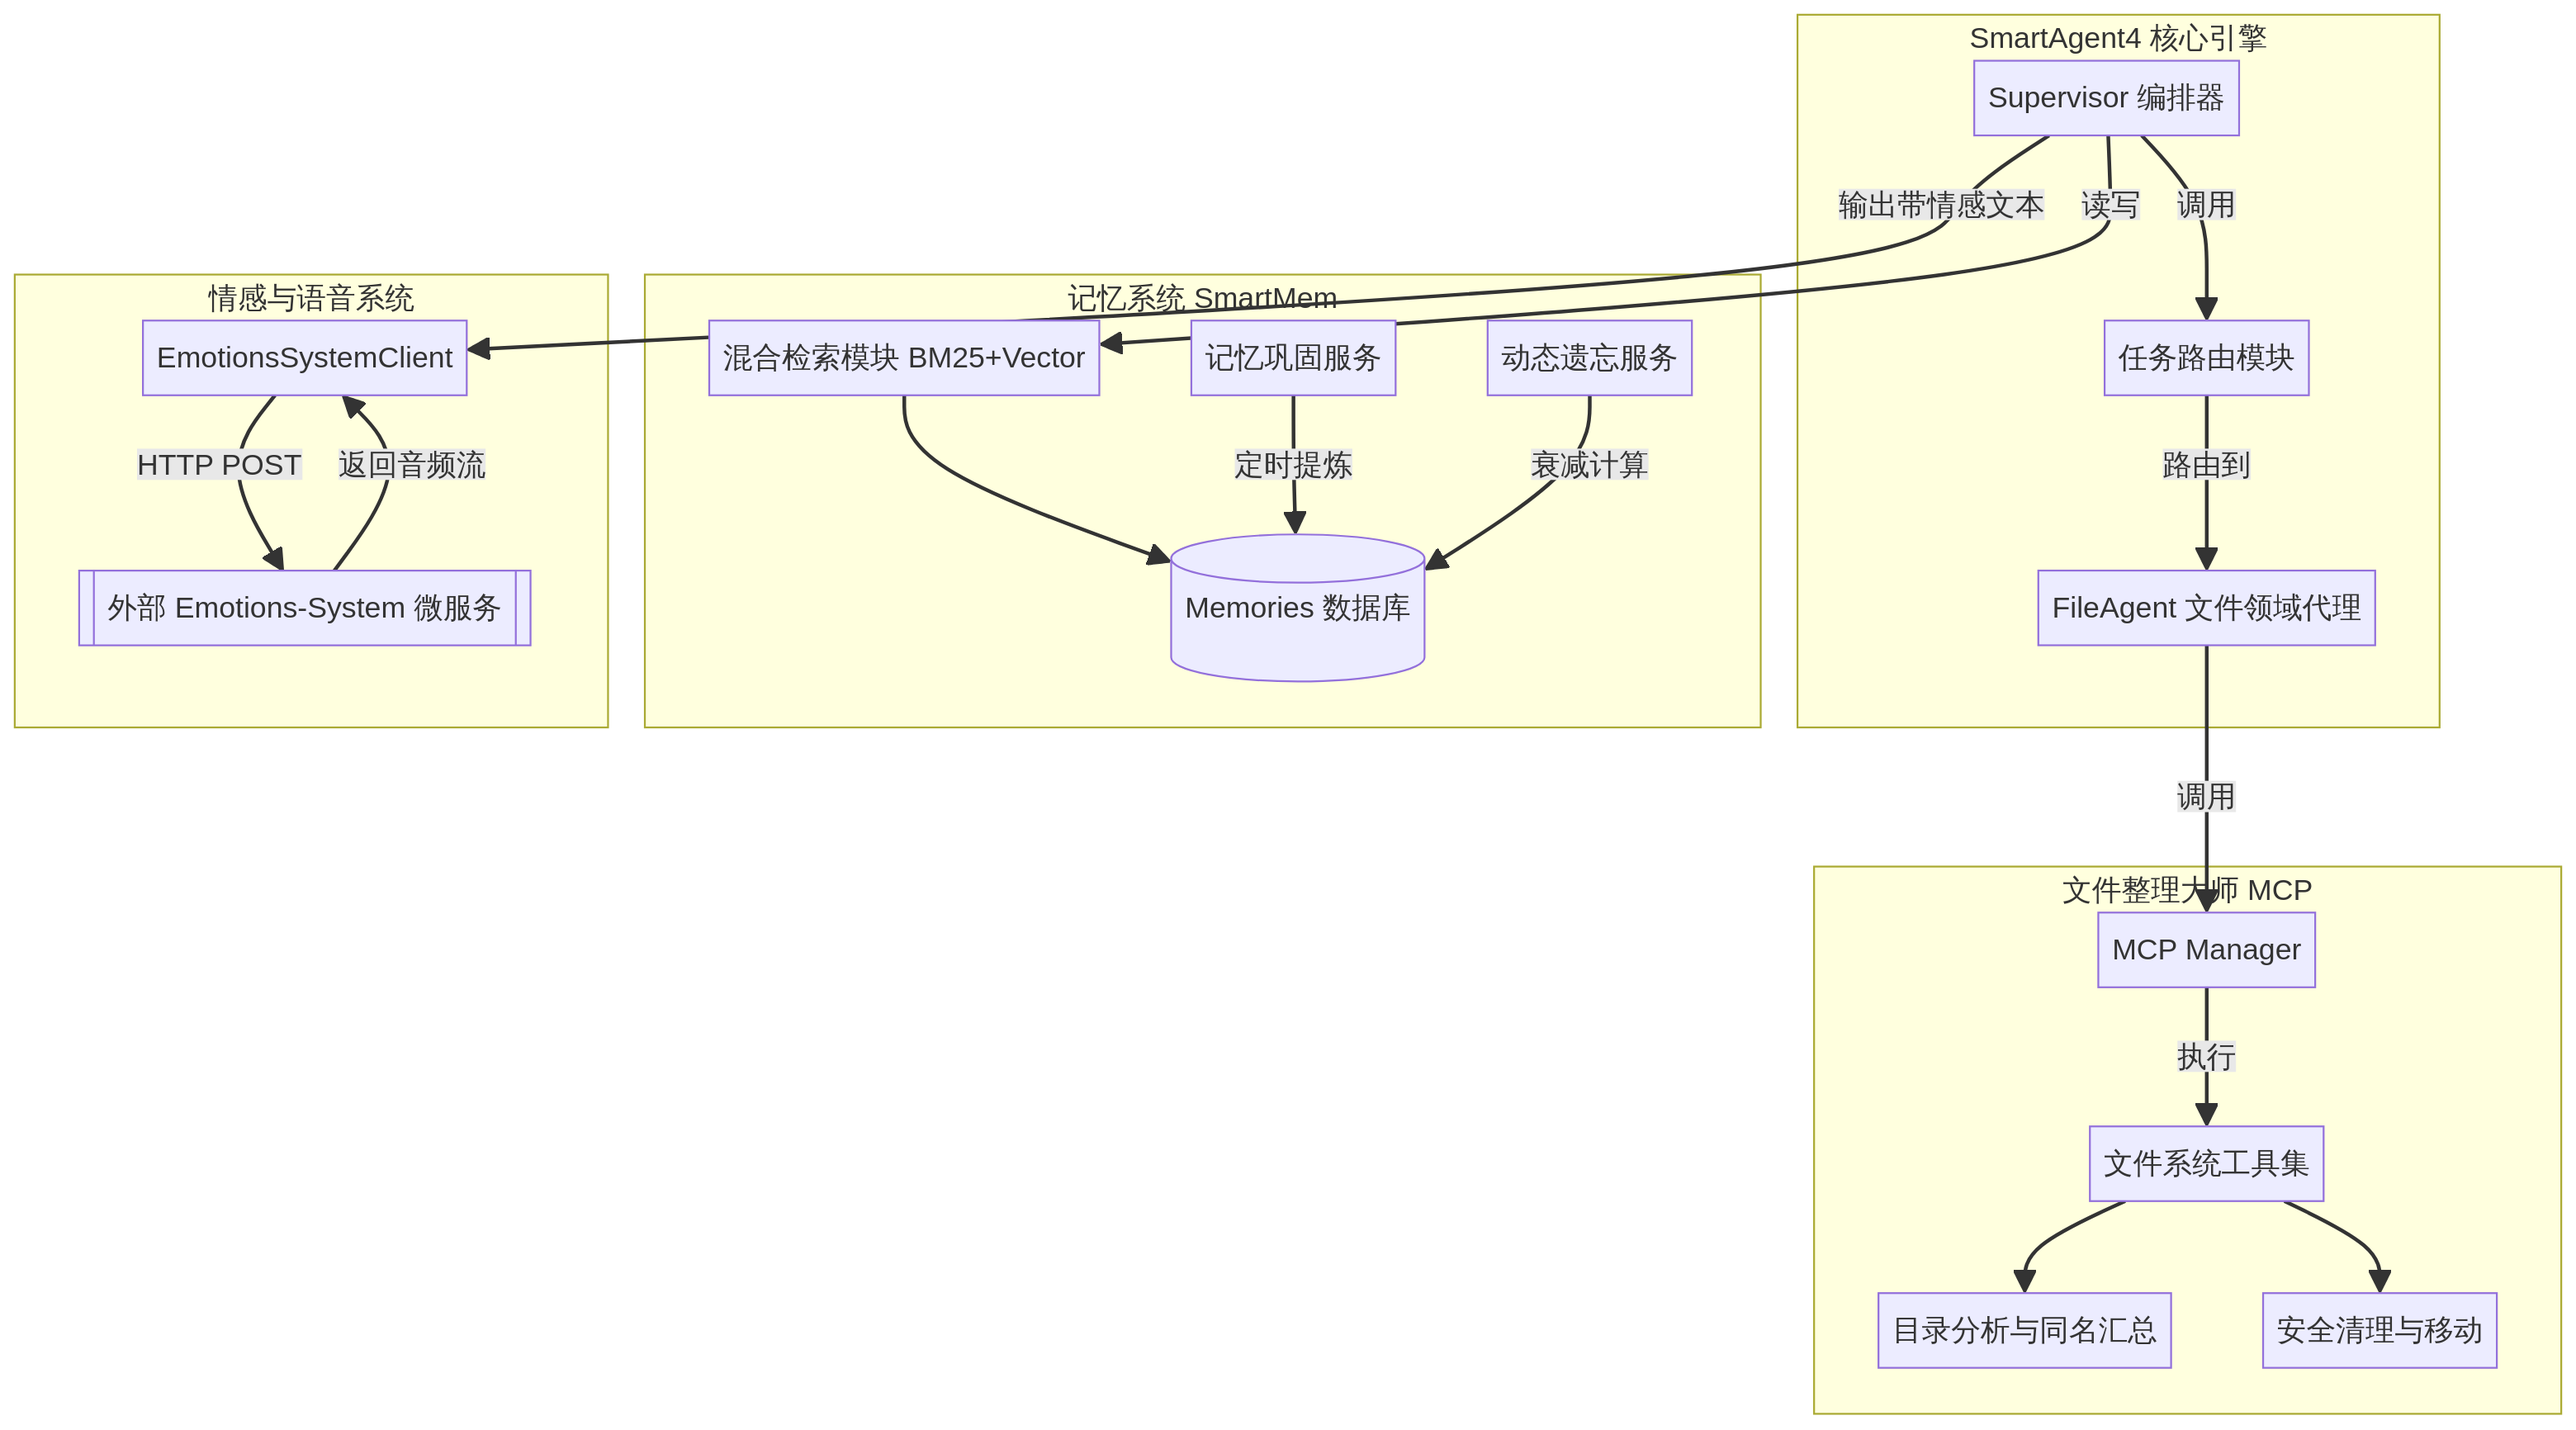
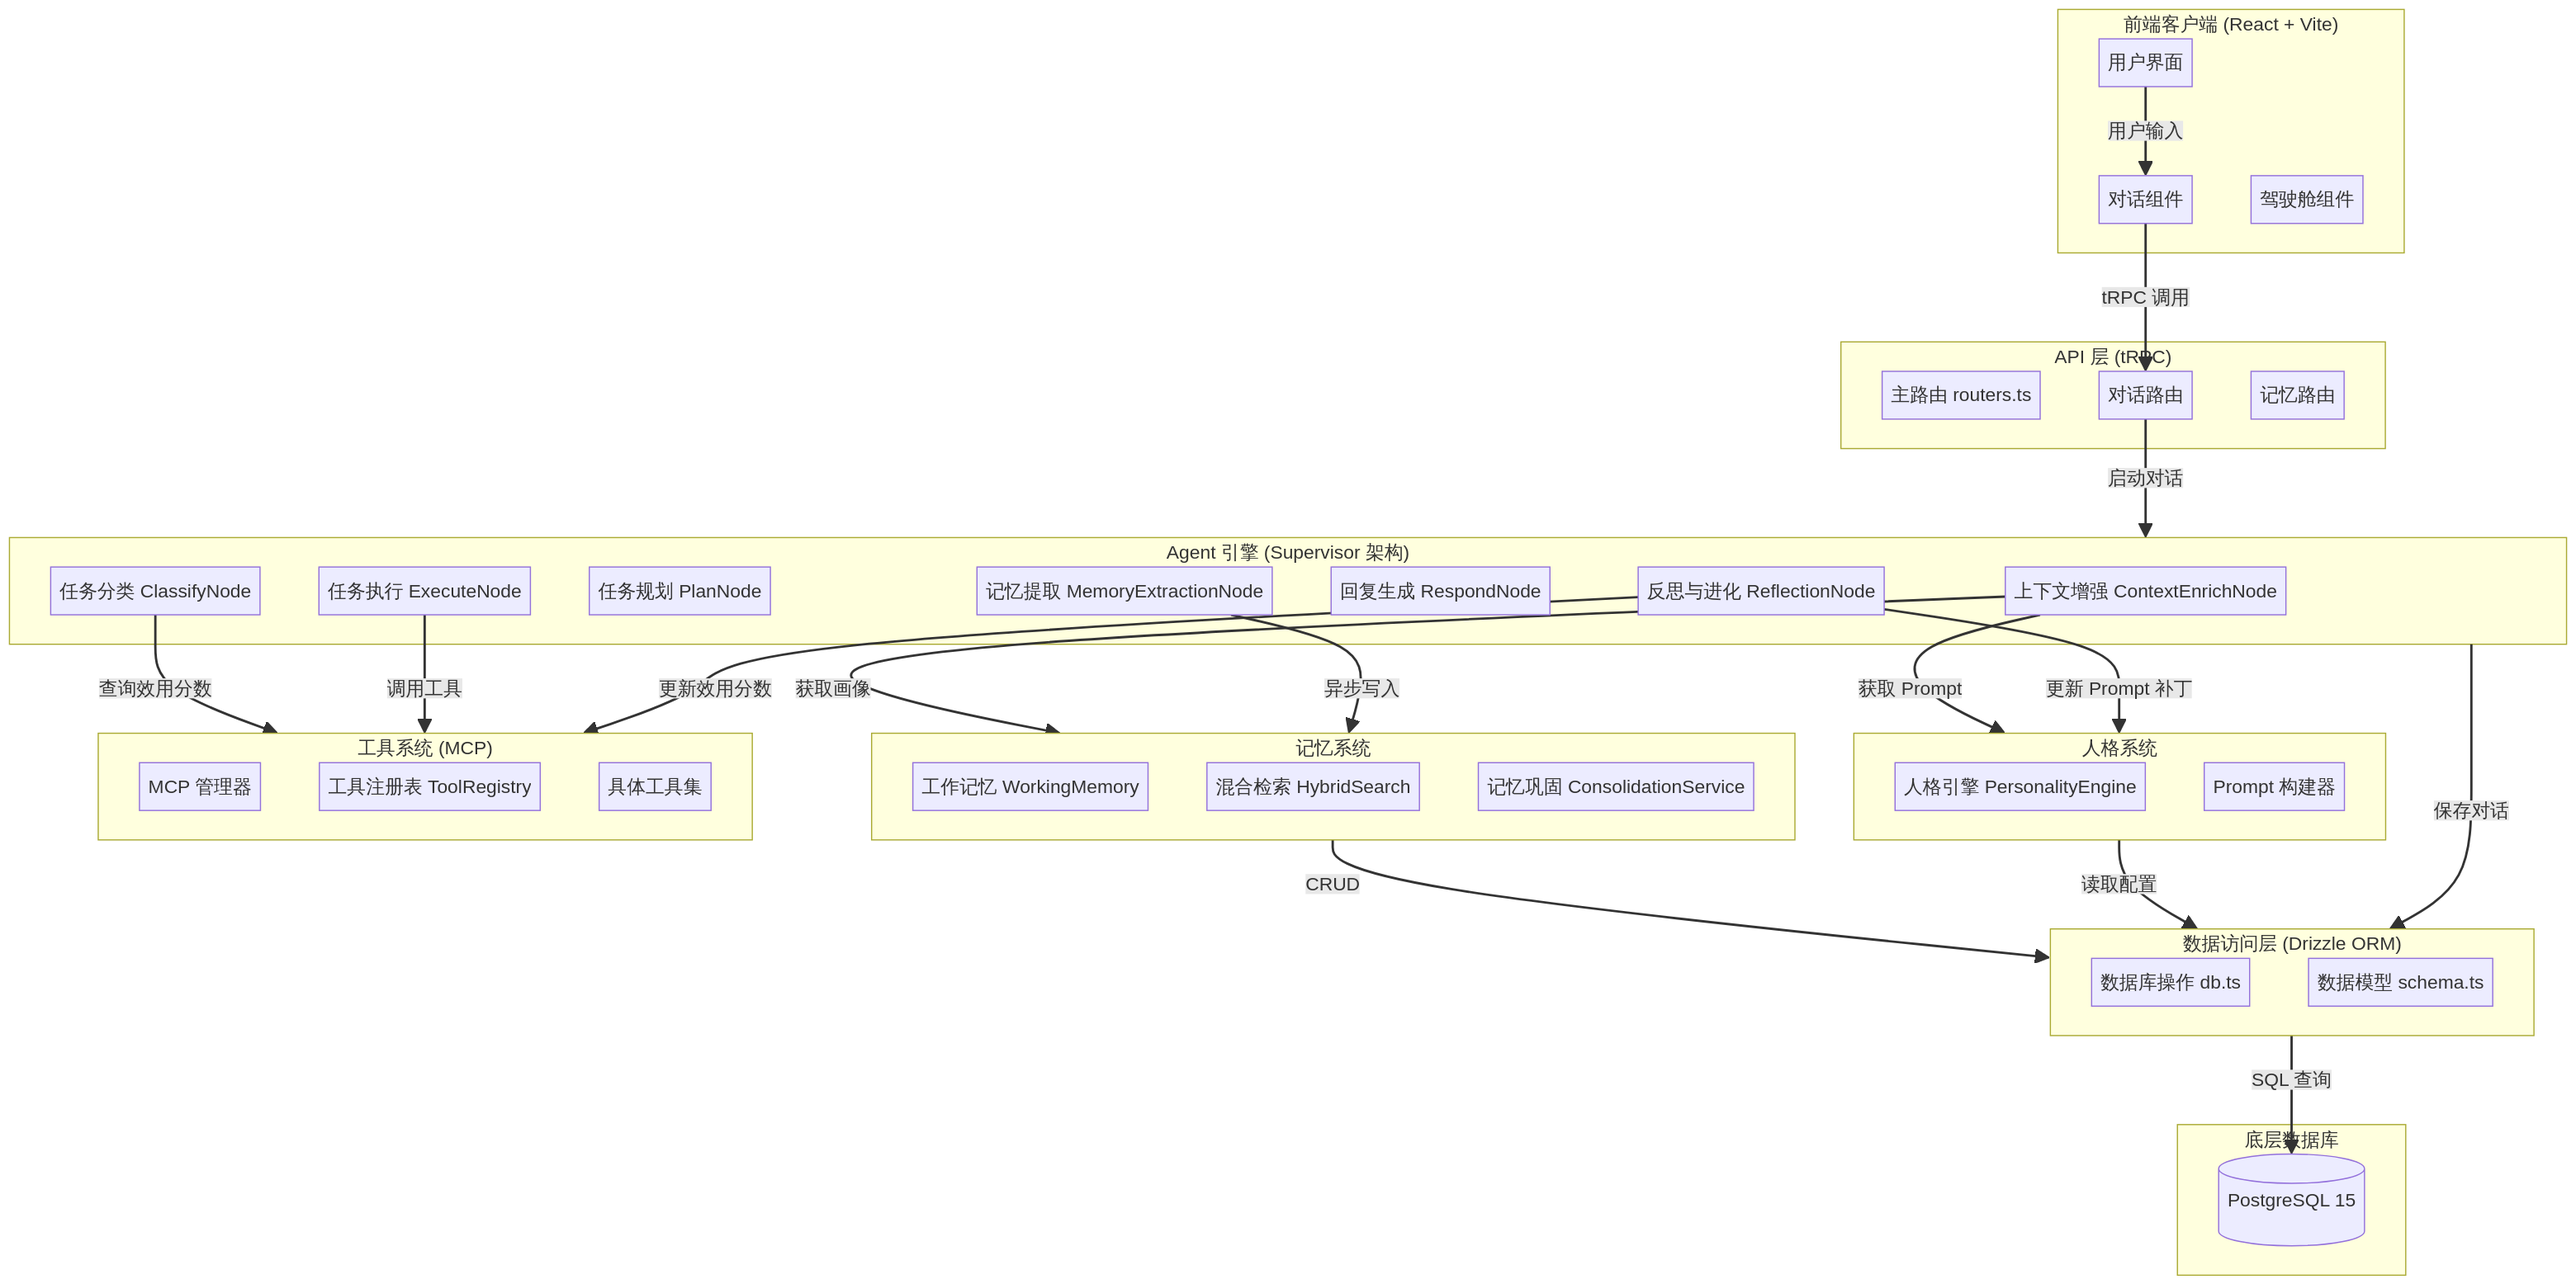
Phase 2: Architecture & Design - 架构设计

diff --git a/ARCHITECTURE.md b/ARCHITECTURE.md
@@ -1,53 +1,55 @@
 # SmartAgent4 系统架构设计
 
-**文档状态**：第2阶段产出
-**目标**：定义 SmartAgent4 的高层系统架构，特别是针对 SmartMem 记忆系统、Emotions-System TTS 语音合成以及文件整理大师三大新增功能的集成设计。
+## 1. 高层架构概览
 
-## 1. 高层架构图
+SmartAgent4 采用基于 Supervisor 的多 Agent 协作架构，结合了 LangGraph 进行流程编排。系统主要分为前端客户端、API 层、Agent 引擎、记忆系统、人格系统、工具系统和数据访问层。
 
-SmartAgent4 在保留 SmartAgent3 核心 Supervisor-Worker 架构的基础上，横向扩展了记忆、情感和文件处理能力。
+![系统架构图](./diagrams/architecture.png)
 
-![SmartAgent4 架构图](./diagrams/architecture.png)
+## 2. 模块职责表
 
-## 2. 模块职责说明
+| 模块名称 | 主要职责 | 核心技术 | 依赖关系 |
+|----------|----------|----------|----------|
+| **前端客户端** | 提供用户交互界面，包括对话窗口和驾驶舱视图 | React, Vite, TailwindCSS | tRPC Client |
+| **API 层** | 提供类型安全的后端接口，处理请求路由和鉴权 | tRPC, Express | Agent 引擎, 数据访问层 |
+| **Agent 引擎** | 核心业务逻辑，负责任务分类、规划、执行和反思 | LangGraph, LangChain | 记忆系统, 人格系统, 工具系统 |
+| **记忆系统** | 管理工作记忆和长期记忆，提供记忆提取、检索和巩固功能 | LLM, 向量检索 | 数据访问层 |
+| **人格系统** | 管理 AI 角色配置，动态构建 System Prompt | JSON 配置, 模板引擎 | 数据访问层 |
+| **工具系统** | 统一管理 MCP Server 提供的工具，支持动态调用 | MCP SDK | 外部 API |
+| **数据访问层** | 提供数据库连接和基础 CRUD 操作 | Drizzle ORM, PostgreSQL | 底层数据库 |
 
-| 模块名称 | 主要职责 | 技术栈与依赖 |
-| :--- | :--- | :--- |
-| **Agent 核心引擎** | 负责对话编排、意图分类、任务路由和领域 Agent（如 FileAgent）的调度。 | TypeScript, LangGraph 概念, LLM (ByteDance) |
-| **记忆系统 (SmartMem)** | 提供长短期记忆的存储、混合检索（BM25+Vector）、记忆巩固（聚类提炼）和动态遗忘（指数衰减）。 | TypeScript, Drizzle ORM, SQLite/PostgreSQL |
-| **情感与语音系统** | 解析 LLM 输出的复合情感标签，调用外部 TTS 微服务生成音频，并组装多模态响应。 | TypeScript (Client), Python (外部微服务) |
-| **文件整理大师 (MCP)** | 提供高级文件系统操作，包括目录分析、同名文件汇总、重复检测、安全删除和移动。 | TypeScript, Node.js `fs` 模块, MCP 协议 |
+## 3. 数据流描述
 
-## 3. 核心数据流描述
+### 3.1 典型的"写"操作：记忆提取与存储
 
-### 3.1 记忆写入与巩固数据流
-1.  **写入**：用户与 Agent 交互时，`memoryExtractionNode` 提取关键信息，调用 `memorySystem.ts` 写入 `memories` 表，同时计算 Embedding 并初始化重要性分数。
-2.  **巩固**：后台定时任务（Cron）触发 `ConsolidationService`，查询近期高频访问的零散记忆，调用 LLM 进行聚类和提炼，生成高阶语义记忆并存入数据库。
-3.  **遗忘**：后台定时任务触发 `ForgettingService`，根据艾宾浩斯遗忘曲线公式（$R = e^{-t/S}$）衰减记忆重要性分数。
+1. 用户发送消息，前端通过 tRPC 调用 `chat.sendMessage` 接口。
+2. 请求进入 Agent 引擎，经过上下文增强、分类、规划和执行节点，最终生成回复。
+3. 在回复生成后，异步触发 `MemoryExtractionNode`（记忆提取节点）。
+4. 记忆提取节点调用 `memorySystem.ts` 中的 `extractMemoriesFromConversation` 方法。
+5. 该方法首先对对话历史进行四层过滤（去噪、去客套话等），然后使用增强版 Prompt 调用 LLM 提取记忆。
+6. 提取出的记忆经过动态阈值去重后，通过数据访问层（`db.ts`）写入 PostgreSQL 数据库的 `memories` 表中。
 
-### 3.2 情感语音合成数据流
-1.  **生成**：LLM 根据上下文生成带有复合情感标签的文本，例如 `[emotion:happy|instruction:用欢快的语气] 好的，我帮你整理文件！`。
-2.  **解析与调用**：`EmotionsSystemClient` 拦截该文本，使用正则提取标签和纯文本，通过 HTTP POST 请求发送给外部的 Emotions-System 微服务。
-3.  **组装**：微服务返回 WAV 音频流（或 Base64），Client 将其与纯文本打包成 `MultimodalSegment` 返回给前端播放。
+### 3.2 典型的"读"操作：基于效用分数的工具路由
 
-### 3.3 文件整理与清理数据流（交互式）
-1.  **分析**：用户请求“整理下载目录”。`TaskRouter` 将任务路由给 `FileAgent`。`FileAgent` 调用 MCP 工具 `analyze_directory` 和 `find_duplicates`。
-2.  **展示**：MCP Server 扫描本地文件系统，返回同名文件列表、大文件列表和统计数据。`FileAgent` 将这些数据格式化后展示给用户，并提出清理建议。
-3.  **确认与执行**：用户在前端确认删除某些文件。`FileAgent` 接收到确认指令后，调用 MCP 工具 `delete_files`（移入回收站或直接删除），并向用户报告清理结果。
+1. 用户发送复杂任务请求，进入 Agent 引擎的 `ClassifyNode`（任务分类节点）。
+2. 分类节点在构建 Prompt 时，从工具系统（`ToolRegistry`）中查询各工具的当前效用分数（Utility Score）。
+3. LLM 根据用户意图和工具效用分数，决定将任务路由给哪个具体的 Domain Agent（如 `FileAgent` 或 `NavigationAgent`）。
+4. 被选中的 Agent 在执行过程中，通过 `MCPManager` 调用具体工具。
+5. 执行完成后，`ReflectionNode`（反思节点）异步分析执行结果，更新工具的效用分数，并可能生成 Prompt 补丁反馈给人格系统。
 
 ## 4. 关键设计决策
 
-### 4.1 记忆系统的内嵌而非独立服务
-*   **背景**：SmartMem 原本是一个独立项目。
-*   **决策**：将其核心算法（混合检索、巩固、遗忘）直接内嵌到 SmartAgent4 的 `server/memory` 目录中，并复用现有的 Drizzle ORM 数据库连接。
-*   **理由**：减少微服务间的网络开销，且记忆数据与 Agent 的上下文高度耦合，内嵌能提供最佳的性能和开发体验。
+### 4.1 数据库从 MySQL 迁移至 PostgreSQL
+- **背景**：为了后续引入 Apache AGE 图数据库和 pgvector 向量存储，需要统一底层数据库。
+- **决策**：将 Drizzle ORM 的方言从 `mysql` 切换为 `postgresql`，使用 `postgres.js` 驱动。
+- **理由**：PostgreSQL 提供了更强大的扩展能力，能够在一个实例中同时处理关系型、图和向量数据，简化了部署架构。
 
-### 4.2 文件清理的“强制确认”机制
-*   **背景**：赋予 AI 删除本地文件的能力存在极高的安全风险。
-*   **决策**：在 `FileAgent` 的系统提示词中硬编码“强制确认”规则，并在 MCP Server 的 `delete_files` 工具实现中加入路径白名单校验（仅限用户目录）。
-*   **理由**：确保用户对破坏性操作拥有绝对的控制权，防止 AI 误删系统关键文件。
+### 4.2 记忆提取管道的四层过滤机制
+- **背景**：原有的记忆提取直接将原始对话送入 LLM，导致大量噪声被提取，浪费 Token 且降低了记忆质量。
+- **决策**：在送入 LLM 前，增加四层预过滤（系统消息、客套话、内联噪声、长度截断），并强制要求 LLM 输出时间锚定。
+- **理由**：通过预处理减少无用信息，提高 LLM 提取的精准度和效率，确保提取出的记忆具有持久价值。
 
-### 4.3 语音合成的微服务解耦
-*   **背景**：Emotions-System 依赖 Python 和特定的 AI SDK。
-*   **决策**：SmartAgent4 仅实现一个轻量级的 HTTP 客户端，将 TTS 核心逻辑完全交给外部独立部署的 Emotions-System。
-*   **理由**：避免在 TypeScript 项目中混入复杂的 Python 依赖，保持核心系统的纯粹性。
+### 4.3 异步 fire-and-forget 的自进化闭环
+- **背景**：需要在不增加用户感知延迟的前提下，实现系统的自我反思和进化。
+- **决策**：在对话回复返回给用户后，异步触发反思节点（Reflection Node），进行工具效用评估和 Prompt 补丁生成。
+- **理由**：异步处理可以完全解耦核心对话链路与后台优化逻辑，保证了系统的实时响应性能。
